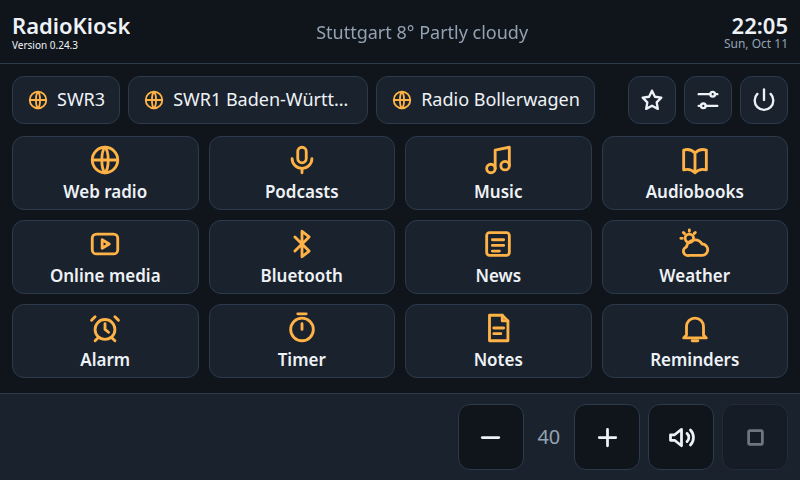
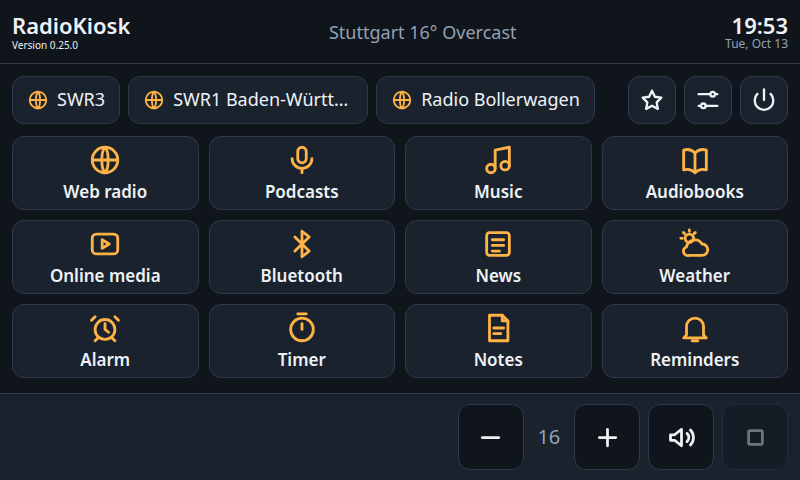
README: current screenshots of version 0.25, with the idle screen showing the weather and the verse in front of the new lights
Claude-Session: https://claude.ai/code/session_011iS9CMtseyihRMJq1xwzqv

Changed region(s): [[0.4062, 0.0312, 0.6562, 0.0938], [0.9062, 0.0312, 1.0, 0.125], [0.6562, 0.9062, 0.6875, 0.9375]]

diff --git a/README.de.md b/README.de.md
@@ -11,10 +11,11 @@ Ein Radio fürs Küchenregal, ein digitaler Bilderrahmen und mit einem RTL-SDR-S
 | | |
 |---|---|
 | ![Startbildschirm eines Küchenradios: nur Hören und Alltag](docs/screenshots/kitchen.png) | ![Ruhebildschirm als Bilderrahmen, mit Uhr, Wetter und dem, was läuft](docs/screenshots/idle.png) |
+| ![Ruhebildschirm mit dem Wetter und den nächsten Tagen, dahinter weiche Lichter](docs/screenshots/idle-weather.png) | ![Ruhebildschirm mit dem Bibelvers des Tages](docs/screenshots/idle-verse.png) |
 | ![Startbildschirm mit allen Kacheln, auch dem Funk-Hobby](docs/screenshots/home.png) | ![UKW mit Sendername und Wasserfall](docs/screenshots/fm.png) |
 | ![Freier Empfänger auf dem 2-m-Amateurfunkband](docs/screenshots/receiver.png) | ![Live-Flugzeugkarte](docs/screenshots/aircraft.png) |
 
-> Version 0.24: Alles hier Aufgeführte ist gebaut, aber nicht alles auf jeder Art von Hardware ausprobiert. Was ungetestet ist, steht in den Release-Notizen.
+> Version 0.25: Alles hier Aufgeführte ist gebaut, aber nicht alles auf jeder Art von Hardware ausprobiert. Was ungetestet ist, steht in den Release-Notizen.
 
 ## Installation
 

diff --git a/README.md b/README.md
@@ -11,10 +11,11 @@ A radio for the kitchen shelf, a digital picture frame, and with an RTL-SDR stic
 | | |
 |---|---|
 | ![Start screen of a kitchen radio: listening and everyday tiles only](docs/screenshots/kitchen.png) | ![Idle screen as a picture frame, with clock, weather and what is playing](docs/screenshots/idle.png) |
+| ![Idle screen with the weather and the days ahead, soft lights behind it](docs/screenshots/idle-weather.png) | ![Idle screen with the Bible verse of the day](docs/screenshots/idle-verse.png) |
 | ![Start screen with every tile, radio hobby included](docs/screenshots/home.png) | ![FM with station name and waterfall](docs/screenshots/fm.png) |
 | ![Free receiver on the 2 m amateur band](docs/screenshots/receiver.png) | ![Live aircraft map](docs/screenshots/aircraft.png) |
 
-> Version 0.24: everything listed here is built, but not all of it has been tried on every kind of hardware. The release notes say what is untested.
+> Version 0.25: everything listed here is built, but not all of it has been tried on every kind of hardware. The release notes say what is untested.
 
 ## Install
 
